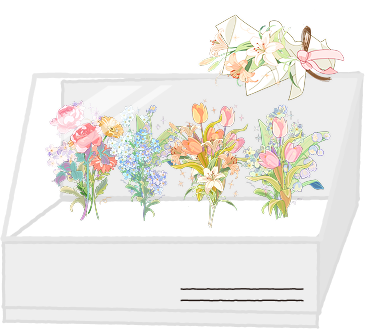
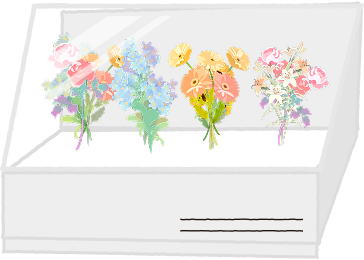
minor design change

diff --git a/src/features/customize/components/ResultCard.tsx b/src/features/customize/components/ResultCard.tsx
@@ -94,7 +94,7 @@ const ResultCard: React.FC<ResultCardProps> = ({ flowerCard }) => {
 				<div>
 					{/* 날짜 */}
 					<div
-						className="absolute left-[3.2em] top-[3em] text-black z-20 text-sm"
+						className="absolute left-[3em] 3xl:left-[2.6em] top-[2.5em] 3xl:top-[2.5em] text-black z-30 text-sm"
 						style={{ fontFamily: "Yidstreet" }}
 					>
 						{date}
@@ -111,6 +111,17 @@ const ResultCard: React.FC<ResultCardProps> = ({ flowerCard }) => {
 								backgroundImage: `conic-gradient(from 0deg in oklab, ${color1} 28%, ${color2}33 46%, ${color2} 83%, ${color1} 100%)`,
 							}}
 						/>
+						{/* SVG를 그라데이션 영역 왼쪽 위에 위치 */}
+						<svg 
+							xmlns="http://www.w3.org/2000/svg" 
+							width="160" 
+							height="45" 
+							viewBox="0 0 160 45" 
+							fill="none"
+							className="absolute z-20 left-[-0.3em] top-[1em] scale-70 3xl:left-[1.8em] 3xl:top-[1.75em] 3xl:scale-100"
+						>
+							<path d="M122.824 44H0V0H160L122.824 44Z" fill="#ffffff"/>
+						</svg>
 						{/* 중앙 흰색 반투명 원 */}
 						<div
 							className="absolute z-15 w-64 h-64"

diff --git a/src/features/archive/components/FlowerCard.tsx b/src/features/archive/components/FlowerCard.tsx
@@ -41,6 +41,17 @@ const FlowerCard = ({ flower, style }: FlowerCardProps) => {
 						backgroundImage: `conic-gradient(from 0deg in oklab, ${color1} 28%, ${color2}33 46%, ${color2} 83%, ${color1} 100%)`,
 					}}
 				/>
+				{/* SVG를 그라데이션 영역 왼쪽 위에 위치 */}
+				<svg 
+					xmlns="http://www.w3.org/2000/svg" 
+					width="46" 
+					height="22" 
+					viewBox="0 0 46 22" 
+					fill="none"
+					className="absolute z-20 left-[-0.3em] top-[1em] scale-70 3xl:left-[1.8em] 3xl:top-[1.75em] 3xl:scale-100"
+				>
+					<path d="M35.3393 19.2825H0V0H46.0359L35.3393 19.2825Z" fill="#ffffff"/>
+				</svg>
 				{/* 중앙 흰색 반투명 원 */}
 				<div
 					className="absolute z-15"

diff --git a/src/app/pages/MainTestPage.tsx b/src/app/pages/MainTestPage.tsx
@@ -93,7 +93,7 @@ const MainTestPage = () => {
 					{hoveredButton === "archive" &&
 						<Bubble
 							text="Archive"
-							className="absolute bottom-[22.5em] left-1/2 translate-x-[calc(-50%-10em)] w-[13.75em] h-[7.5em]"
+							className="absolute bottom-[28em] left-1/2 translate-x-[calc(-50%-10em)] w-[13.75em] h-[7.5em]"
 							backgroundImage={functionBubblePng}
 							backgroundSize="contain"
 							backgroundPosition="center"
